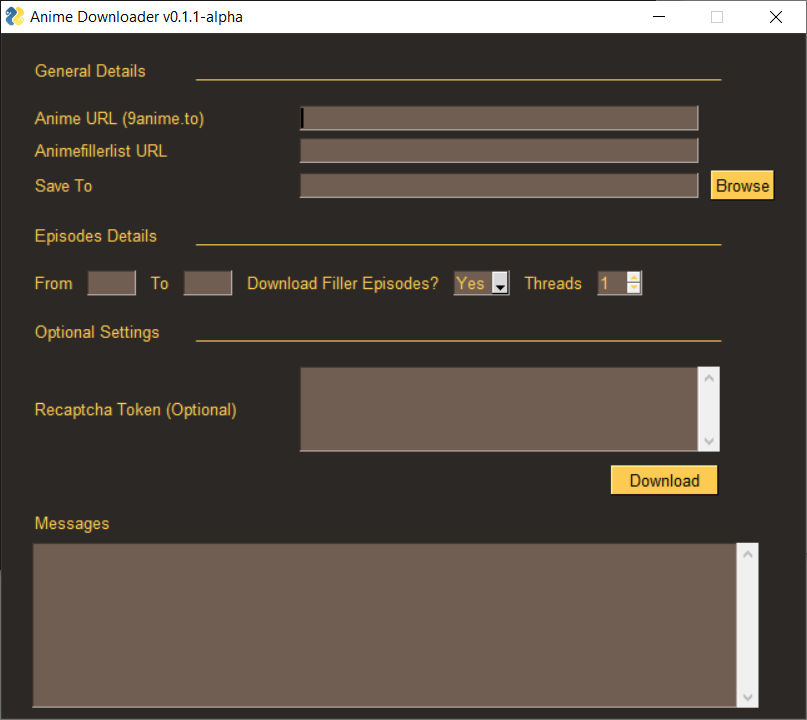
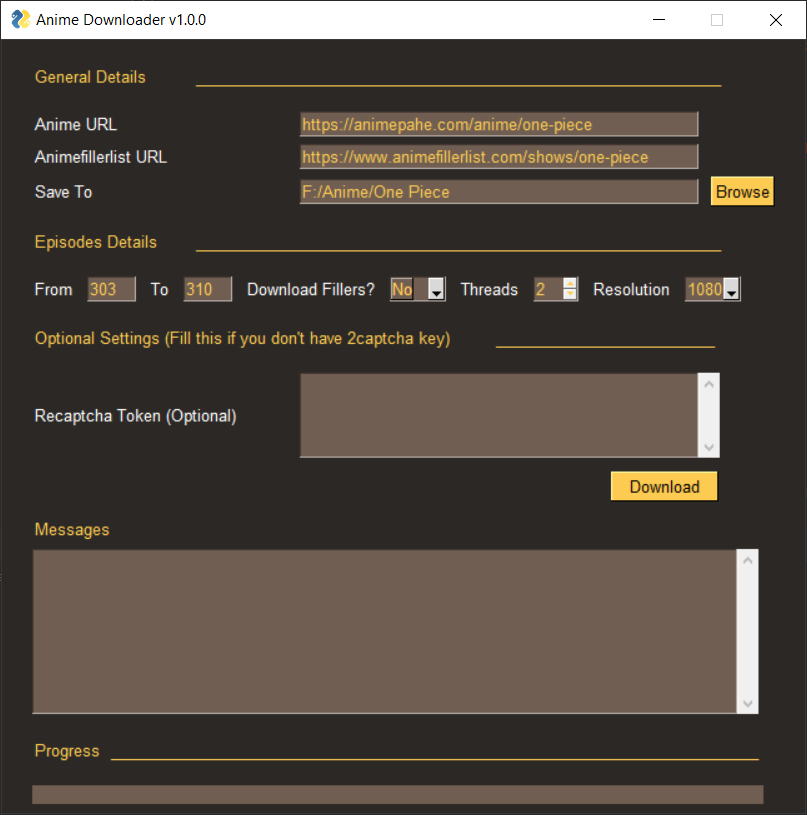
- Added progress bar and now shows total progress - Replaced gui images
TODO :
- Create executable
- Do final test
- Release v1.0.0

diff --git a/anime_downloader/gui/GUI.py b/anime_downloader/gui/GUI.py
@@ -12,9 +12,13 @@ from scrapers.animeultima.animeultima_scraper import AnimeUltimaScraper
 from scrapers.animepahe.animepahe_scraper import AnimePaheScraper
 
 sg.theme('Dark Amber')
+i = 0
+max_val = 100
 
 
 def download(anime_url, names_url, start_epi, end_epi, is_filler, is_titles, token, threads, directory, gui, resolution="720", is_dub=False):
+    global max_val
+
     session = cloudscraper.create_scraper()
     scraper = None
     episodes = []
@@ -59,6 +63,7 @@ def download(anime_url, names_url, start_epi, end_epi, is_filler, is_titles, tok
         printer("ERROR", "Failed to retrieve download links!", gui)
         return
 
+    max_val = len(episodes)
     # print("is titles", is_titles)
     downloader = Downloader(directory, episodes, threads, gui, is_titles)
     downloader.download()
@@ -97,12 +102,15 @@ class AnimeGUI:
             [],
             [sg.Text("Messages")],
             [sg.Multiline(size=(None, 8), key="txt_msg", disabled=True)],
-            []
+            [],
+            [sg.Text("Progress"), sg.Text("_" * 74, pad=(0, 15))],
+            [sg.ProgressBar(100, key="progress", orientation="h", size=(45, 15))]
         ]
 
-        self.window = sg.Window("Anime Downloader v0.1.1-alpha", layout)
+        self.window = sg.Window("Anime Downloader v1.0.0", layout)
 
     def check_messages(self, values):
+        global i, max_val
         txt = values["txt_msg"].strip()
         while True:
             try:  # see if something has been posted to Queue
@@ -112,18 +120,28 @@ class AnimeGUI:
             # if message received from queue, display the message in the Window
             if message:
                 txt += "\n" + message
+
+                if "finished downloading..." in message or "failed to download!" in message:
+                    i+=1
+                    self.window["progress"].UpdateBar(i, max=max_val)
+
                 self.window['txt_msg'].update(txt)
                 # do a refresh because could be showing multiple messages before next Read
                 self.window.refresh()
                 # print(message)
 
     def run(self):
+        global i, max_val
         self.create_ui()
+
         while True:
             # wait for up to 100 ms for a GUI event
             event, values = self.window.read(timeout=100)
             if event in (None, 'Exit'):
                 break
+
+            # self.window["progress"].UpdateBar(i+1, max=100)
+            # i+=1
 
             if event == "Download":
                 anime_url = values["anime_url"]
@@ -138,7 +156,10 @@ class AnimeGUI:
                 threads = values["threads"]
                 start_epi = int(values["start_epi"]) if values["start_epi"] != "" else 1
                 end_epi = int(values["end_epi"]) if values["end_epi"] != "" else 9999
-                resolution = values["resolution"]
+                resolution = str(values["resolution"])
+
+                max_val = (end_epi - start_epi) + 1
+                self.window["progress"].UpdateBar(i, max=max_val)
 
                 if anime_url == "":
                     self.window['txt_msg'].update("[ERROR!] : Provide Anime URL!")

diff --git a/anime_downloader/scrapers/animepahe/animepahe_scraper.py b/anime_downloader/scrapers/animepahe/animepahe_scraper.py
@@ -72,10 +72,14 @@ class AnimePaheScraper(BaseScraper):
             link = api_data[links[0]]["720"]["url"]
             id = link.split("/")[-1]
 
-            # 1080p
-            if self.resolution == "1080":
-                link = api_data[links[0]]["1080"]["url"]
-                id = link.split("/")[-1]
+            try:
+                # 1080p
+                if self.resolution == "1080":
+                    link = api_data[links[0]]["1080"]["url"]
+                    id = link.split("/")[-1]
+            except Exception as ex:
+                printer("ERROR", "1080p not available!", self.gui)
+                printer("INFO", "Continuing with 720p link...", self.gui)
 
             episode.id = id
             page_url = "https://kwik.cx/f/" + id

diff --git a/anime_downloader/util/Color.py b/anime_downloader/util/Color.py
@@ -13,7 +13,7 @@ class Color:
 
 def printer(msg_type, msg, gui=None):
     if gui:
-        gui.gui_queue.put("[" + msg_type + "] : " + msg)
+        gui.gui_queue.put("[" + msg_type + "] : " + str(msg))
 
     if msg_type == "INFO":
         print(Color.YELLOW("[INFO!] : " + msg) + Color.RESET(" "))
